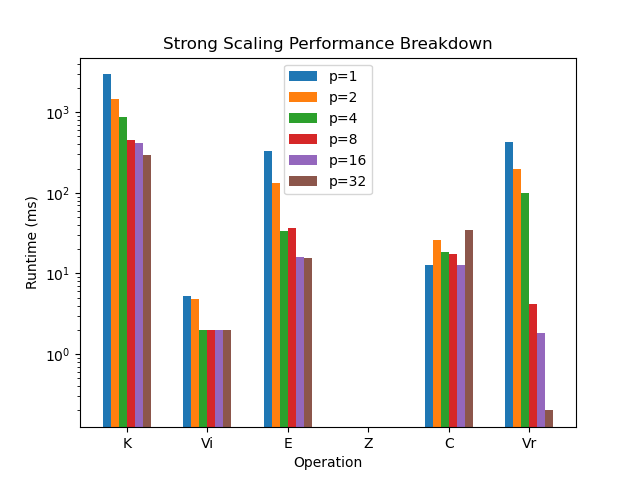
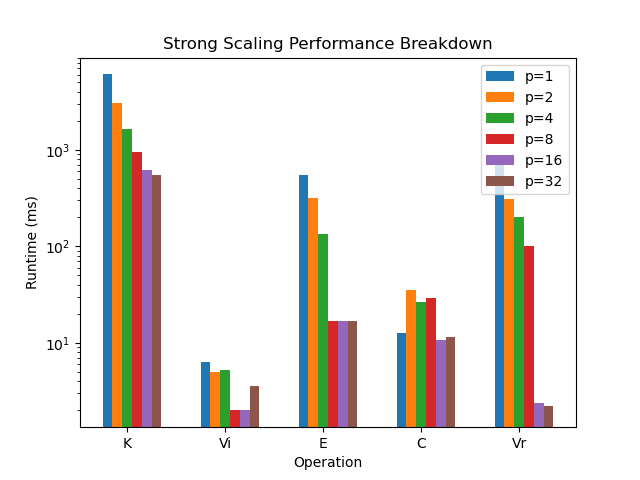
Update benchmark

diff --git a/benchmark/main.py b/benchmark/main.py
@@ -5,10 +5,13 @@ import matplotlib.pyplot as plt
 import numpy as np
 
 
+# Constant definitions
 P = [2**i for i in range(6)]
-C = ["K", "Vi", "E", "Z", "C", "Vr"]
+C = ["K", "Vi", "E", "C", "Vr"]
+# C = ["K", "Vi", "E", "Z", "C", "Vr"]
 
 
+# Extract statistics
 savgs = {}
 wavgs = {}
 pattern = re.compile(r"((\d+\r?\n){7})")
@@ -34,6 +37,14 @@ for p in P:
         print(f"Could not find {filepath}")
 
 
+# Filter Z (runtime is negligible)
+for k, v in savgs.items():
+    savgs[k] = np.delete(v, 4)
+for k, v in wavgs.items():
+    wavgs[k] = np.delete(v, 4)
+
+
+# Create graphs
 plt.title("Strong Scaling Runtime")
 plt.plot(P, [savgs[p][0] for p in P], label="Actual")
 plt.plot(P, [savgs[P[0]][0] / p for p in P], label="Theoretical")
